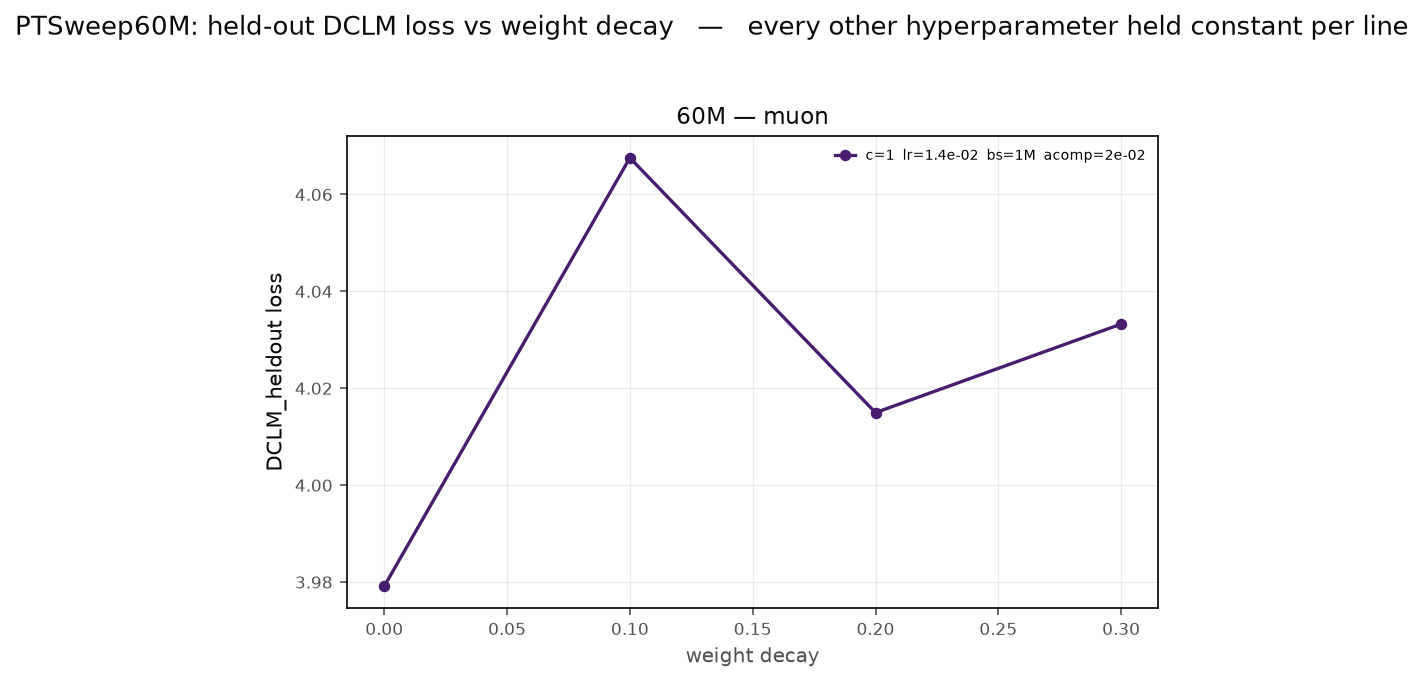
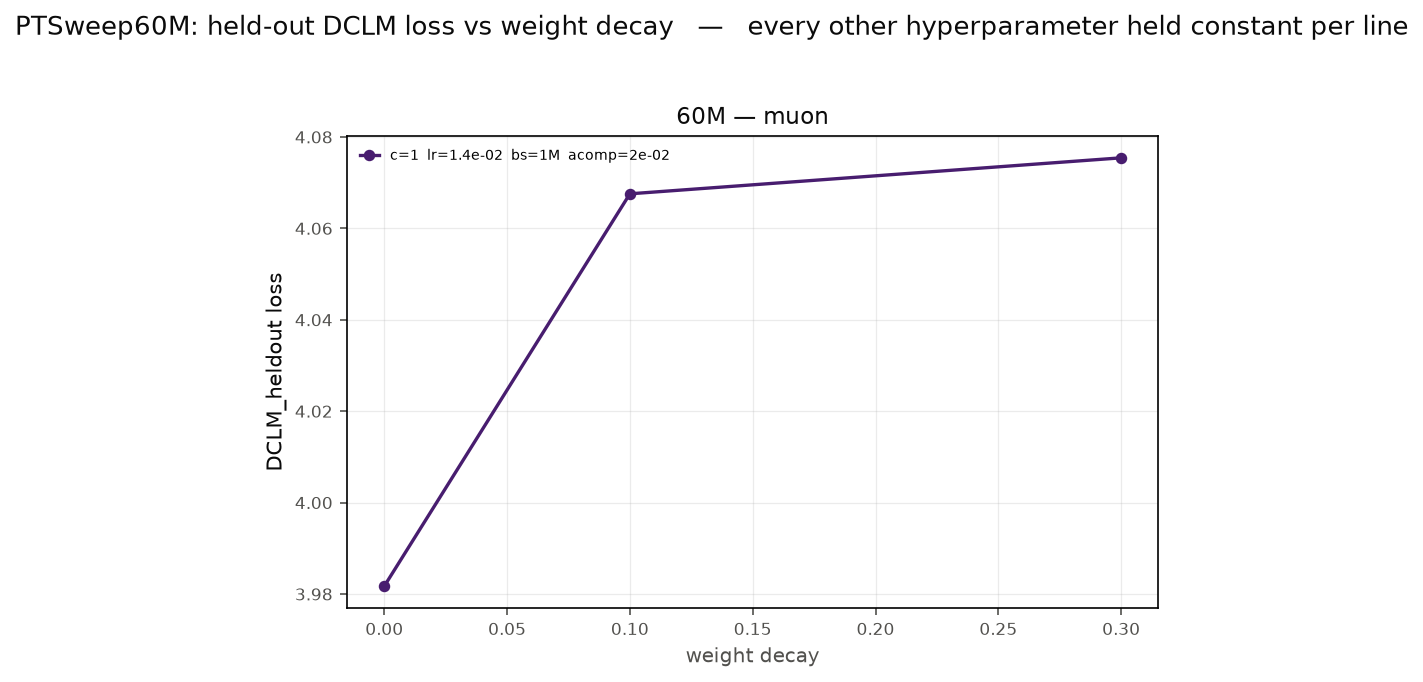
slice plots: mirror the eval cache so deletions propagate
gsutil rsync without -d never removes a local file whose GCS object is gone, so
an eval deleted as invalid kept being plotted from the stale local copy: the
60M c1 wd=0.2 point was still drawn at its pre-fix value after the object had
been removed and its rerun had failed. The -x patterns apply to both sides, so
excluded CPT/EWC files are not deleted.

diff --git a/new_utils/plot_pt60m_slices.py b/new_utils/plot_pt60m_slices.py
@@ -58,7 +58,12 @@ BS_ORDER = {"1M": 1.0, "2M": 2.0, "4M": 4.0}
 def sync(cache, size):
     os.makedirs(cache, exist_ok=True)
     subprocess.run(
-        ["gsutil", "-m", "rsync",
+        # -d makes the cache a true mirror. Without it a deletion on GCS never
+        # propagates, so an eval that was removed as invalid keeps being plotted
+        # from the stale local copy -- which is how a pre-fix wd=0.2 loss
+        # survived into the figure after its GCS object was gone. The -x
+        # patterns are applied to both sides, so excluded files are not deleted.
+        ["gsutil", "-m", "rsync", "-d",
          "-x", r".*-CPT-.*|.*-EWC-.*|.*_perturbed_.*|.*-typo-.*",
          f"{BUCKET}/Optim-{size}-tuning/ModelEvaluation/", cache],
         stdout=subprocess.DEVNULL, stderr=subprocess.DEVNULL)
